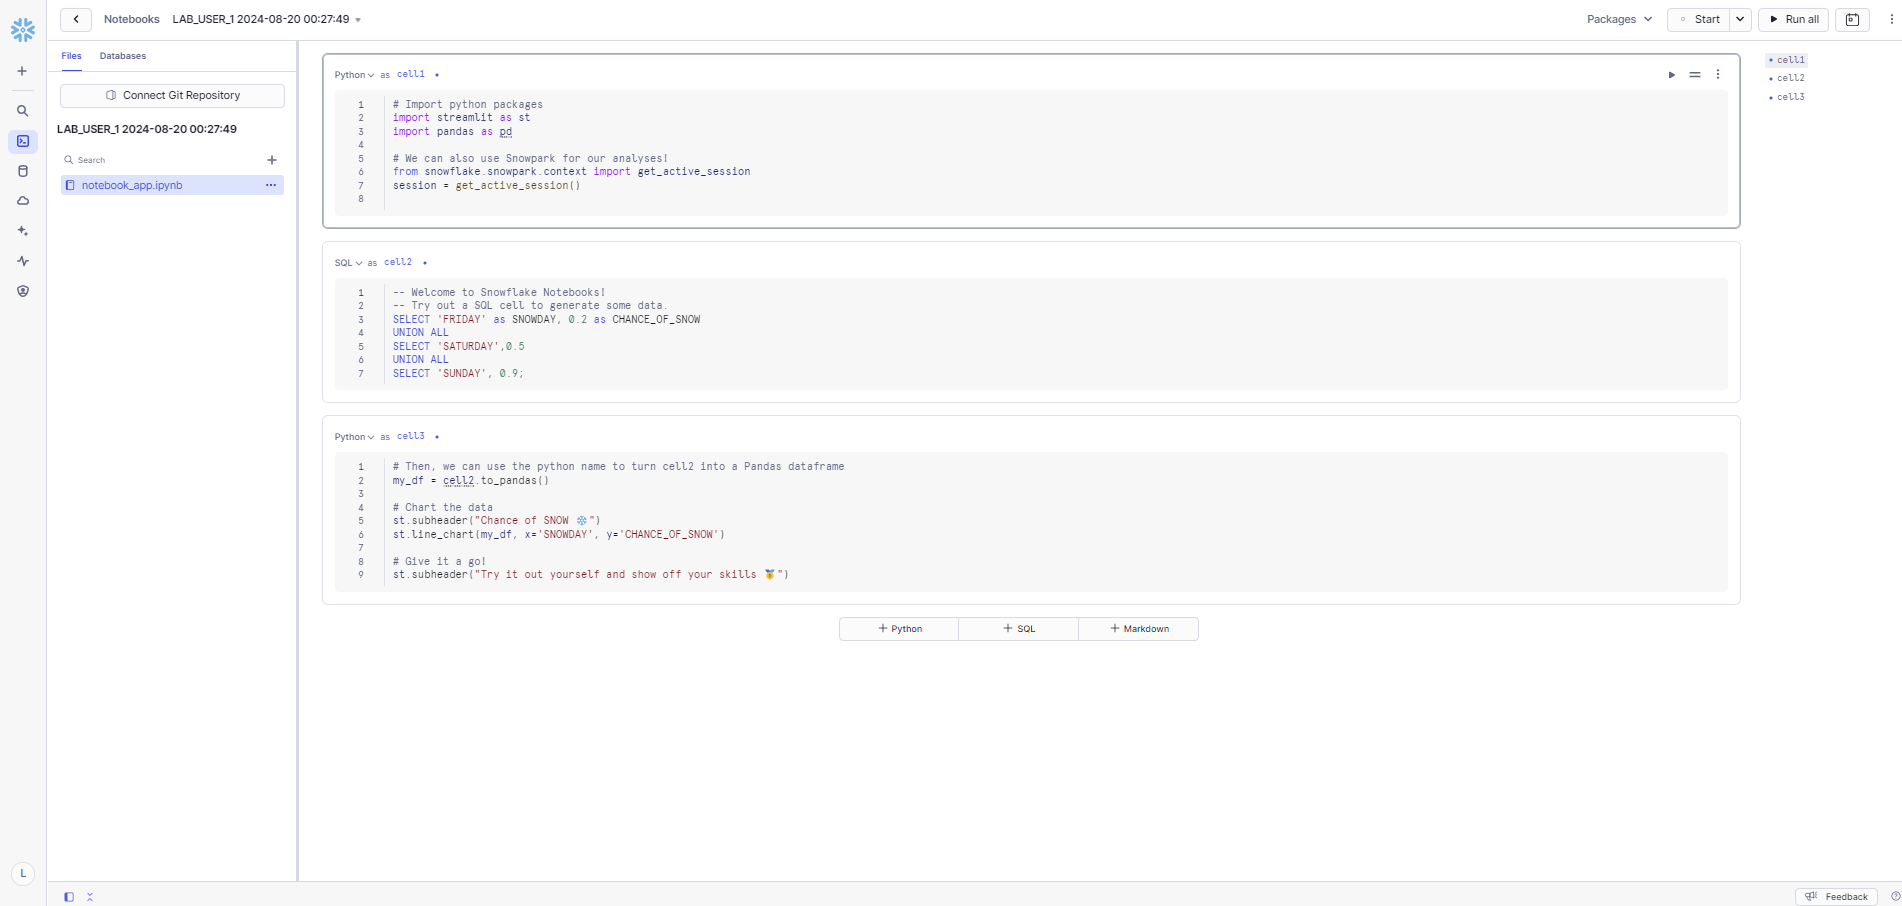
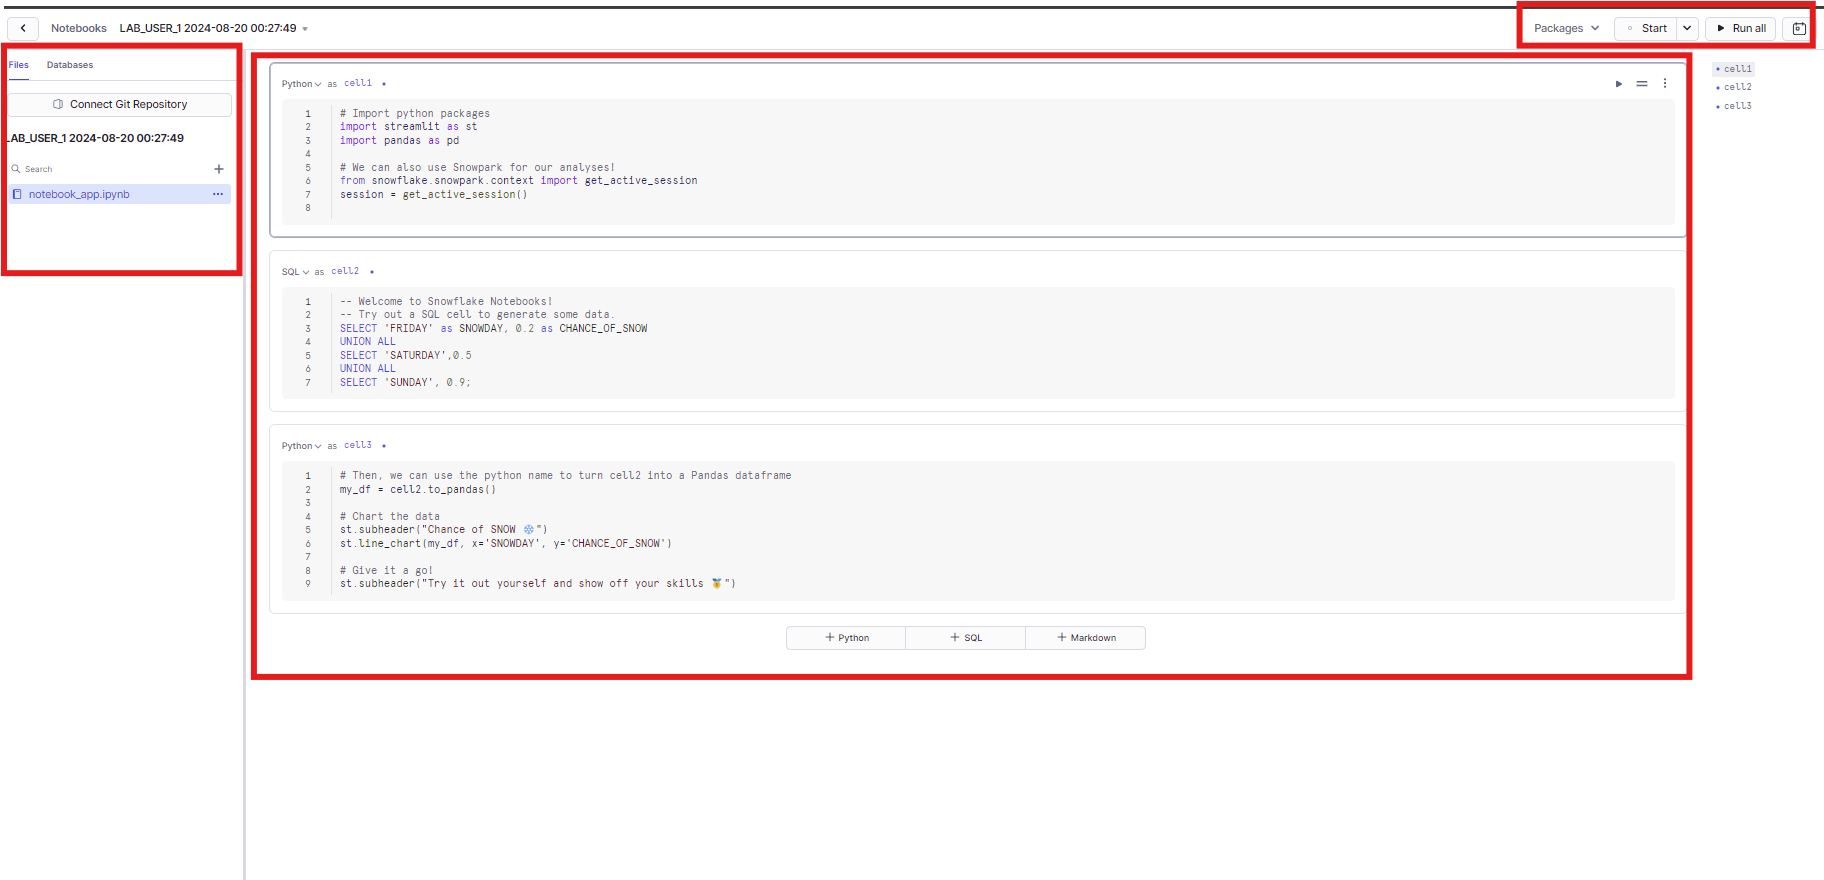
Adding corrections

diff --git a/zero_to_chat_with_your_data/zero_to_chat_with_your_data.md b/zero_to_chat_with_your_data/zero_to_chat_with_your_data.md
@@ -106,6 +106,8 @@ The bottom pane displays the results of queries and other operations. Also inclu
 
 The various panes on this page can be resized by adjusting their sliders. If you need more room in the worksheet, collapse the database objects browser in the left panel. Many of the screenshots in this guide keep this panel closed.
 
+> **`Note`**: To save time, we'll use pre-written SQL statements in this lab, all provided within a worksheet `ZERO_TO_CHAT_WITH_YOUR_DATA`. 
+
 ### Projects > Notebooks ###
 
 Typically, a lot of SQL work happens in Snowflake's **Worksheets**. However, for this exercise we will use the Snowflake **Notebooks** interface. The **Notebooks** are Snowflake's implementation of Jupyter Notebooks, a powerful tool for data science that allow us to create a sequential mix of Markdown, SQL and Python cells to walk us through a complete data exploration or manipulation process.
@@ -116,10 +118,22 @@ Under **Projects** on the left-hand panel, select the **Notebooks** tab.
 
 ### Notebooks Structure
 
->  **Notebooks vs. the UI**
-To save time, the tasks in this notebook are executed using pre-written SQL. These tasks could also be completed through the UI, but would require navigating between multiple tabs
-
 ![notebook](assets/notebook_1.png)
+
+Here’s a breakdown of what each section outlined in red in the Snowflake notebook:
+
+**Left Panel (Files and Databases)**:
+
+- `Files Tab`: This section shows the available files within your Snowflake environment, including any notebooks you've created or are currently working on. You can manage and access your files, and it also allows you to connect a Git repository for version control and collaboration.
+- `Databases Tab`: Here, you can browse through the databases associated with your Snowflake account. It lets you explore tables, views, and other database objects, allowing you to query and analyze data directly from your notebook.
+
+**Main Code Area (Center Panel)**:
+
+- `Code Cells`: The central part of the screen is where you write and execute code. This area contains cells that can be set to different modes, such as SQL, Python, or Markdown, depending on the task you are performing. You can execute these cells individually, allowing for step-by-step data analysis or script execution.
+- `SQL and Python Cells`: The Python cell is likely used for data manipulation or analysis, while the SQL cell interacts with the Snowflake database, pulling or modifying data.
+
+**Top Right Panel (Toolbar)**: 
+- `The toolbar` offers controls for managing the notebook environment. You can add or remove packages, start or stop the execution environment, and run all code cells at once. This section helps manage the workflow, ensuring smooth execution of tasks within the notebook.
 
 ### Projects > Dashboards ###
 
@@ -397,13 +411,21 @@ In Snowflake, "scale up" refers to increasing the computational resources of a v
 >For more information about scaling up, you can refer to the [Warehouse considerations](https://docs.snowflake.com/en/user-guide/warehouses-considerations) section of the official Snowflake documentation.
 
 
-### Scaling Out / Multi Warehouses
+### Scaling Out / Multi-cluster Warehouses
 
 Multi-clusters are designed specifically for handling queuing and performance issues related to large numbers of concurrent users and/or queries.
 
 With multi-cluster warehouses, Snowflake supports allocating, either statically or dynamically, additional clusters to make a larger pool of compute resources available. A multi-cluster warehouse is defined by specifying the following properties:
 - Maximum number of clusters, greater than 1 (up to 10).
 - Minimum number of clusters, equal to or less than the maximum (up to 10). 
+
+#### Maximized vs. auto-scale
+
+You can run a multi-cluster warehouse in two modes:
+
+- `Maximized`: Set the same value for both the maximum and minimum number of clusters (must be larger than 1). All clusters start simultaneously, providing maximum resources, ideal for consistent high workloads.
+
+- `Auto-scale`: Set different values for the maximum and minimum number of clusters. Snowflake dynamically starts or stops clusters based on demand, optimizing resource use and cost.
  
 >`Note`: It’s helpful to remember that the difference between scaling up > vs. out is that scaling out is best used for higher number of concurrent queries. When there are more queries submitted that can be processed, queries accumulate in the queue and wait to be run.
 >
@@ -724,7 +746,7 @@ _A popular use case for zero-copy cloning is to clone a production environment f
 A massive benefit of zero-copy cloning is that the underlying data is not copied. Only the metadata and pointers to the underlying data change. Hence, clones are “zero-copy" and storage requirements are not doubled when the data is cloned. Most data warehouses cannot do this, but for Snowflake it is easy!
 >
 > ***Use Cases:***
-> - `Testing and Development`: Developers can use clones to create safe, isolated environments for testing without risking changes to production data.
+> - `Testing and Development`: Developers can use clones of production data to create safe, isolated environments for testing without risking changes to production data.
 > - `Data Analytics`: Analysts can create clones to experiment with different data transformations and analyses without altering the original dataset.
 >
 > Learn more about [Cloning](https://docs.snowflake.com/en/user-guide/object-clone)
@@ -925,23 +947,39 @@ Add snowpark-ml-python package from the packages dropdown in the code editor sec
 
 Snowflake offers two broad categories of powerful, intelligent features based on Artificial Intelligence (AI) and Machine Learning (ML). These features can help you do more with your data in less time than ever before.
 
-- Snowflake Cortex is a suite of AI features that use large language models (LLMs) to understand unstructured data, answer freeform questions, and provide intelligent assistance. This suite of Snowflake AI Features comprises:
+**Snowflake Cortex** is a suite of AI features that use large language models (LLMs) to understand unstructured data, answer freeform questions, and provide intelligent assistance. This suite of Snowflake AI Features comprises:
 
-  - Snowflake Cortex LLM Functions
+- **Snowflake Cortex LLM Functions**: These are SQL and Python-based functions that can be used to develop an understanding, query, translate, summarize, and generate free-form text.
+The available functions are summarized below.
 
-  - Universal Search
+  - [*`COMPLETE`*](https://docs.snowflake.com/en/user-guide/snowflake-cortex/llm-functions#label-cortex-llm-complete): Given a prompt, returns a response that completes the prompt. This function accepts either a single prompt or a conversation with multiple prompts and responses.
 
-  - Snowflake Copilot
+  - [*`EMBED_TEXT_768`*](https://docs.snowflake.com/en/user-guide/snowflake-cortex/llm-functions#label-cortex-llm-embed-text): Creates a vector embedding of 768 dimensions for a given English-language text.
 
-  - Document AI
+  - [*`EMBED_TEXT_1024`*](https://docs.snowflake.com/en/user-guide/snowflake-cortex/llm-functions#label-cortex-llm-embed-text-1024): Creates a vector embedding of 1024 dimensions for a given English-language text. 
 
-  - Cortex Fine-tuning
+  - [*`EXTRACT_ANSWER`*](https://docs.snowflake.com/en/user-guide/snowflake-cortex/llm-functions#label-cortex-llm-extract-answer): Given a question and unstructured data, returns the answer to the question if it can be found in the data.
 
-  - Cortex Search
+  - [*`SENTIMENT`*](https://docs.snowflake.com/en/user-guide/snowflake-cortex/llm-functions#label-cortex-llm-sentiment): Returns a sentiment score, from -1 to 1, representing the detected positive or negative sentiment of the given text.
 
-  - Cortex Analyst
+  - [*`SUMMARIZE`*](https://docs.snowflake.com/en/user-guide/snowflake-cortex/llm-functions#label-cortex-llm-summarize): The SUMMARIZE function returns a summary of the given English text.
 
-**Cortex AI** is particularly useful for tasks like generating SQL queries based on natural language inputs, analyzing trends and patterns in large datasets, and supporting decision-making processes with AI-powered recommendations.
+  - [*`TRANSLATE`*](https://docs.snowflake.com/en/user-guide/snowflake-cortex/llm-functions#label-cortex-llm-translate): The TRANSLATE function translates text from the indicated or detected source language to a target language..
+
+
+- **Universal Search** : Universal Search understands your query and information about your database objects and can find objects with names that differ from your search terms.
+
+- **Snowflake Copilot** : is an AI-powered assistant that helps you write, optimize, and understand SQL queries to analyze your Snowflake data assets
+
+- **Document AI** : Document AI is a Snowflake AI feature that uses Arctic-TILT, a proprietary large language model (LLM), to extract data from documents.
+
+- **Cortex Fine-tuning** : Cortex Fine-Tuning is a fully managed service that lets you fine-tune popular LLMs using your data, all within Snowflake.
+
+- **Cortex Search** : Snowflake’s fully managed search service for documents and other unstructured data, is designed to be that reliable retrieval partner in an enterprise RAG stack.
+
+- **Cortex Analyst** : Cortex Analyst is a fully-managed, LLM-powered Snowflake Cortex feature that helps you create applications capable of reliably answering business questions based on your structured data in Snowflake
+
+**`Cortex AI`** is particularly useful for tasks like generating SQL queries based on natural language inputs, analyzing trends and patterns in large datasets, and supporting decision-making processes with AI-powered recommendations.
 
 > Learn more about [Snowflake AI and ML](https://docs.snowflake.com/en/guides-overview-ai-features) documentation.
 
